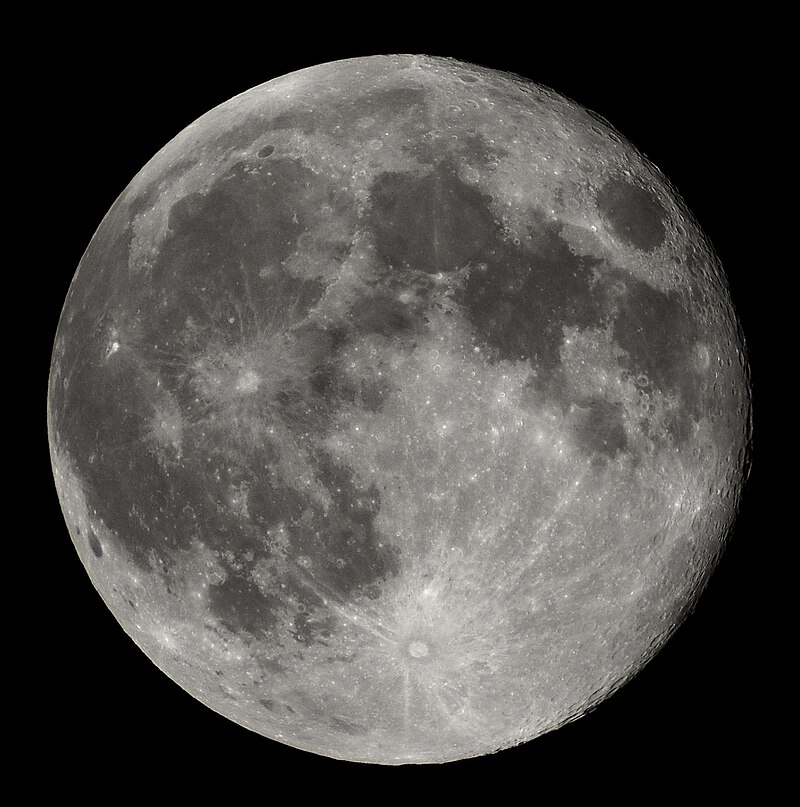
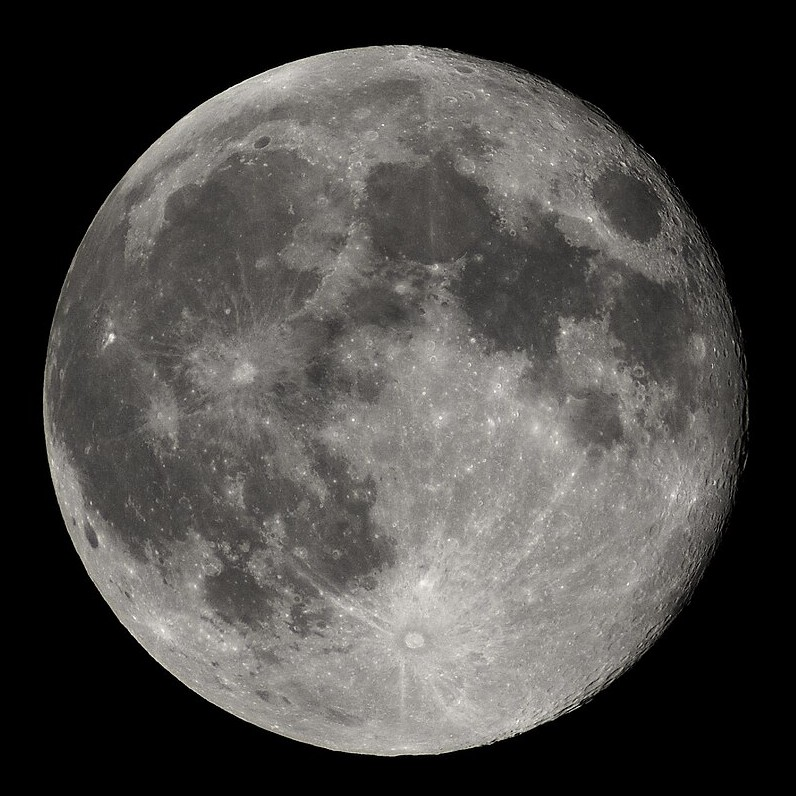
Include an image of the moon in the moon phase plot.

diff --git a/moon_phase.py b/moon_phase.py
@@ -4,6 +4,8 @@ The following script studies Moon phases, their nomenclature
 and exact representation given a certain position between the 
 Sun, Moon and Earth.
 
+Cropped picture of rhe Moon from the original: Luc Viatour / https://Lucnix.be https://creativecommons.org/licenses/by-sa/3.0/
+
 Created on Wed Nov 27 2024
 
 @author: raul
@@ -72,24 +74,27 @@ def get_moon_phase(system: AstroList, filename: str):
     # Changes nomenclature of theta and defines linspaces in order to plot the phase 
                 
     x = theta
-    R = 1  # The radius of the figures to plot
+    R = 0.895  # The radius of the figures to plot
     theta_ax = np.linspace(0,2*np.pi,360)
-    phi = np.linspace(0,np.pi,500)
-    r = np.linspace(-np.sqrt(R),np.sqrt(R),360)
+    phi = np.linspace(0, np.pi,500)
+    r = np.linspace(-R,R,360)
 
     # Do the plot, black background, dark gray circle for the moon
     ax = plt.gca()
-    ax.set_aspect('equal', adjustable='box')
-    ax.set_facecolor((0.07,0.07,0.07))
-    plt.fill(R*np.cos(theta_ax), R*np.sin(theta_ax), c=(0.1,0.1,0.1))
+    # ax.set_facecolor((0.07,0.07,0.07))
+    img = plt.imread("moon_image.jpg")
+    ax.imshow(img, extent=(-1, 1, -1, 1))
+    # plt.fill(R*np.cos(theta_ax), R*np.sin(theta_ax), c=(0.1,0.1,0.1, 0.9))
 
     # Plot visible part of the moon, light gray. Inlcude the moon phase on the title
-    x = np.append(R*np.sin(phi), np.cos(x)*np.sqrt(R**2-r**2)) * (sign if not np.isclose(sign, 0) else 1)
-    y = np.append(R*np.cos(phi),r)
-    plt.fill(x,y, 'gray')
+    x = np.append(-R*np.sin(phi), np.cos(x)*np.sqrt(R**2-r**2)) * (sign if not np.isclose(sign, 0) else 1)
+    y = np.append(R*np.cos(phi),r)-0.0055
+    plt.fill(x,y, c=(0.1, 0.1, 0.1, 0.9))
+
     plt.title(f'Moon Phase: {phase}')
     plt.xlabel(f'Date: {seconds_to_years(system.time.item())}')
     # plt.axis('off')   
+    # plt.axis("equal")
     plt.savefig(f'{filename}.svg')
     plt.show()
 
